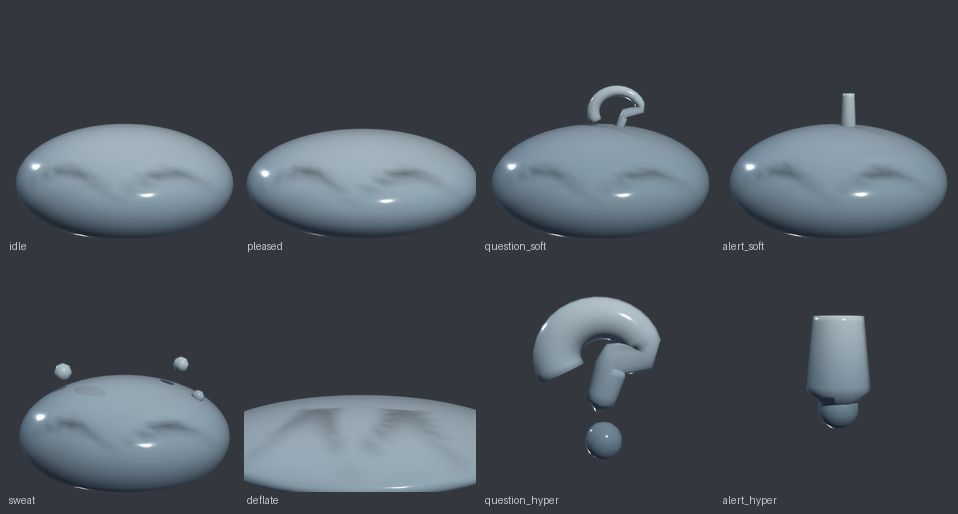
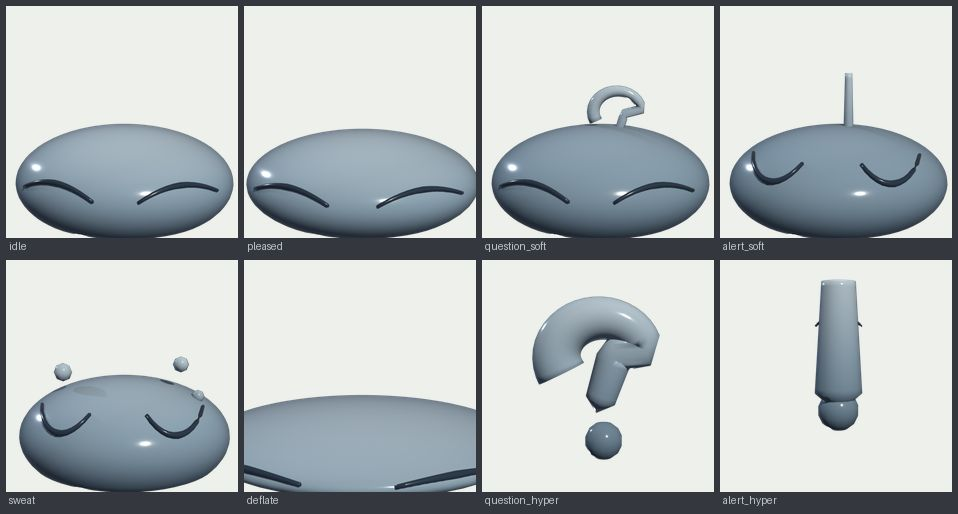
fix(slime_pet): eye strokes survive 72px, per docs/art/_references/slime_tensura
The face is now REAL GEOMETRY laid on the body instead of a crease carved into
it. Measured reason: a crease is a diffuse valley and its contrast dies on
downscale - at 72 px, the size a desktop pet actually is, the carved face
vanished entirely. A dark strip has hard edges, so it survives. Verified on the
use-size strip the build now emits: legible at 512, 200, 120 and 72.

Two bugs found on the way, both the same shape as the ones the rocks kept
producing this week:

  The stroke was solved for a SPHERE of the original radius, but settle_dome had
  already widened XY and compressed Z, so the body is an ELLIPSOID by then. Every
  stroke landed inside the mass and the face disappeared at all sizes. Now solved
  on the real ellipsoid, and offset along the ellipsoid normal (x/ax^2, y/ay^2,
  z/az^2) rather than the position vector - which is a shortcut a sphere permits
  and an ellipsoid does not. Third time in one day that a shape was assumed
  instead of measured.

  The dark-stroke coordinates were snapshotted AFTER bm.free(), so reading them
  raised 'BMesh data of type BMVert has been removed'. Snapshot now happens before
  the free.

Also: --factory-startup leaves the Cycles add-on disabled, so an earlier pass
silently rendered in EEVEE while the code read as if it had asked for Cycles.
Enabling it explicitly changes nothing here - this portable Blender does not ship
Cycles at all, and the engine enum lists only BLENDER_EEVEE. Recorded rather than
worked around.
[…]

diff --git a/game/tools/blender/slime_pet/build_slime_pet.py b/game/tools/blender/slime_pet/build_slime_pet.py
@@ -121,6 +121,58 @@ def carve_eye(bm, side, radius, depth=0.055, arc=0.42, height=0.30, thickness=0.
         v.co -= n * (depth * radius * fall)
 
 
+# Vertices belonging to eye strokes, refilled per expression. Module level so the
+# make_* functions keep their signatures; threading a set through six of them
+# would have bought nothing.
+DARK = set()
+
+
+def add_eye_stroke(bm, side, radius, arc=0.30, height=0.32, thick=0.030,
+                   dip=0.18, proud=0.012, n=13, squash=0.62):
+    """The eye as REAL GEOMETRY laid on the dome, not a crease carved into it.
+
+    Measured reason (2026-08-09): a carved crease is a diffuse valley and its
+    contrast DIES on downscale. At 72 px -- the size a desktop pet actually is --
+    the carved face vanished completely. A dark strip is a shape with hard edges,
+    so it survives being made small, which is the only test that matters here.
+
+    Follows the dome's curvature and sits fractionally proud of it, so it reads as
+    a drawn line the way the anime frames do.
+    """
+    # settle_dome widens XY by 1/sqrt(squash) and compresses Z by squash, so the
+    # body is an ELLIPSOID by the time strokes are added. The first version solved
+    # for a sphere of the original radius and buried every stroke inside the mass:
+    # the face vanished at every size. Third time today that a shape was assumed
+    # instead of measured -- the rocks and the tendrils were the other two.
+    widen = 1.0 / math.sqrt(squash)
+    ax = radius * widen          # semi-axis X
+    ay = radius * widen          # semi-axis Y (depth)
+    az = radius * squash         # semi-axis Z
+    cx = side * 0.46 * ax
+    cz = height * az
+    pts, rad = [], []
+    for i in range(n):
+        t = i / (n - 1)
+        u = (t - 0.5) * 2.0                       # -1 .. 1 across the stroke
+        x = cx + u * arc * ax
+        z = cz - dip * az * (u * u)               # arcs down at the outer ends
+        # Front surface of the ellipsoid at (x, z); clamp so the root stays real.
+        q = (x / ax) ** 2 + (z / az) ** 2
+        y = -ay * math.sqrt(max(1.0 - min(q, 0.999), 0.0))
+        # Outward normal of an ellipsoid is (x/ax^2, y/ay^2, z/az^2), NOT the
+        # position vector -- using the position is what a sphere lets you get away
+        # with and an ellipsoid does not.
+        nrm = Vector((x / (ax * ax), y / (ay * ay), z / (az * az)))
+        if nrm.length > 1e-9:
+            nrm.normalize()
+        p = Vector((x, y, z)) + nrm * (proud * radius)
+        pts.append(p)
+        rad.append(thick * radius * (1.0 - 0.45 * abs(u)))    # tapers to the tips
+    before = set(bm.verts)
+    sweep_tube(bm, pts, rad, ring=6)
+    DARK.update(set(bm.verts) - before)
+
+
 def squint(bm, side, radius, **kw):
     """A broken, tighter stroke -- strain or annoyance."""
     carve_eye(bm, side, radius, depth=kw.get("depth", 0.075),
@@ -198,10 +250,10 @@ def bang_path(scale, n=12):
     pts, rad = [], []
     for i in range(n):
         t = i / (n - 1)
-        pts.append(Vector((0.0, 0.0, 1.10 * scale - t * 0.70 * scale)))
-        # Nearly parallel sides with a slight swell: a cone reads as a spinning
-        # top, which is what the first pass produced.
-        rad.append(scale * (0.105 + 0.030 * t))
+        # A tumbler is what a short fat bar gives you. The glyph is TALL against
+        # its dot -- roughly four dot-diameters -- with near-parallel sides.
+        pts.append(Vector((0.0, 0.0, 1.42 * scale - t * 1.05 * scale)))
+        rad.append(scale * (0.062 + 0.026 * t))
     return pts, rad
 
 
@@ -214,6 +266,12 @@ def add_ball(bm, centre, radius, segments=10):
 def finalize(bm, name, scene):
     bmesh.ops.recalc_face_normals(bm, faces=bm.faces[:])
     bm.normal_update()
+    # Snapshot the stroke coordinates BEFORE freeing the bmesh: a BMVert is dead
+    # the moment bm.free() runs, and reading one afterwards raises
+    # "BMesh data of type BMVert has been removed" -- which is exactly what the
+    # first run of this version did.
+    dark_co = {(round(v.co.x, 5), round(v.co.y, 5), round(v.co.z, 5))
+               for v in DARK if v.is_valid}
     me = bpy.data.meshes.new(name + "_mesh")
     bm.to_mesh(me)
     bm.free()
@@ -222,6 +280,10 @@ def finalize(bm, name, scene):
     zs = [v.co.z for v in me.vertices]
     z_lo, z_hi = min(zs), max(zs)
     for i, v in enumerate(me.vertices):
+        key = (round(v.co.x, 5), round(v.co.y, 5), round(v.co.z, 5))
+        if key in dark_co:
+            col.data[i].color = (EYE_DARK[0], EYE_DARK[1], EYE_DARK[2], 1.0)
+            continue
         c = gel_tone(v.co.z, z_lo, z_hi)
         col.data[i].color = (c[0], c[1], c[2], 1.0)
     obj = bpy.data.objects.new(name, me)
@@ -249,14 +311,15 @@ def darken_eyes(obj, radius, arc=0.42, height=0.30, thickness=0.085):
 
 # ------------------------------------------------------------ expressions ----
 def make_idle(scene, squint_eyes=False, squash=0.62):
+    """Body first, then strokes placed on the body that actually resulted."""
     bm = new_bm_sphere(BODY_R)
     settle_dome(bm, BODY_R, squash=squash)
-    if squint_eyes:
-        squint(bm, -1, BODY_R)
-        squint(bm, 1, BODY_R)
-    else:
-        carve_eye(bm, -1, BODY_R)
-        carve_eye(bm, 1, BODY_R)
+    for side in (-1, 1):
+        if squint_eyes:
+            add_eye_stroke(bm, side, BODY_R, arc=0.24, height=0.34,
+                           thick=0.034, dip=-0.26, squash=squash)   # strain
+        else:
+            add_eye_stroke(bm, side, BODY_R, squash=squash)
     return bm
 
 
@@ -293,15 +356,23 @@ def make_hyperbole(kind, scale):
     """
     bm = bmesh.new()
     if kind == "question":
-        pts, rad = question_path(scale, n=26)
+        pts, rad = question_path(scale, n=34)
         rad = [r * 2.1 for r in rad]
-        sweep_tube(bm, pts, rad, ring=12)
+        sweep_tube(bm, pts, rad, ring=20)
         add_ball(bm, Vector((0.02, 0.0, -0.10 * scale)), scale * 0.185, segments=14)
+        face_r, face_h = scale * 0.40, 1.02 * scale
     else:
-        pts, rad = bang_path(scale, n=14)
-        rad = [r * 2.3 for r in rad]
-        sweep_tube(bm, pts, rad, ring=12)
-        add_ball(bm, Vector((0.0, 0.0, 0.22 * scale)), scale * 0.20, segments=14)
+        pts, rad = bang_path(scale, n=20)
+        rad = [r * 2.6 for r in rad]
+        sweep_tube(bm, pts, rad, ring=20)
+        add_ball(bm, Vector((0.0, 0.0, 0.20 * scale)), scale * 0.20, segments=14)
+        face_r, face_h = scale * 0.30, 1.05 * scale
+    # It has to stay the SAME creature, or the hyperbole reads as a prop someone
+    # left on the desk. Two short strokes across the glyph's thickest span.
+    for side in (-1, 1):
+        add_eye_stroke(bm, side, face_r, arc=0.26,
+                       height=face_h / face_r, thick=0.055, dip=0.16, n=9,
+                       squash=1.0)
     return bm
 
 
@@ -309,10 +380,12 @@ def make_deflate(scene):
     """Melted: the mass gives up and spreads. Volume still conserved."""
     bm = new_bm_sphere(BODY_R)
     settle_dome(bm, BODY_R, squash=0.30, base_flat=-0.55)
+    DEFLATE_SQUASH = 0.30
     for v in bm.verts:                      # eyes become flat resigned lines
         pass
-    carve_eye(bm, -1, BODY_R, depth=0.045, height=0.10, thickness=0.055)
-    carve_eye(bm, 1, BODY_R, depth=0.045, height=0.10, thickness=0.055)
+    for side in (-1, 1):
+        add_eye_stroke(bm, side, BODY_R, arc=0.26, height=0.20, thick=0.034,
+                       dip=0.10, squash=DEFLATE_SQUASH)
     return bm
 
 
@@ -370,10 +443,42 @@ scene.world = world
 world.use_nodes = True
 world.node_tree.nodes["Background"].inputs[0].default_value = (0.05, 0.06, 0.08, 1.0)
 
+# For a GAME asset the GLB is the product and EEVEE is the honest preview. Here
+# the RENDER IS the product, so Cycles earns its cost: real contact shadow and gel
+# translucency. The GTX 1080 sat idle through every previous pass.
+# --factory-startup starts with the Cycles add-on DISABLED, so "CYCLES" is not in
+# the engine enum and the previous run silently fell back to EEVEE while the log
+# claimed otherwise. Enable it before asking.
+try:
+    import addon_utils
+    addon_utils.enable("cycles", default_set=False, persistent=False)
+except Exception as exc:
+    print("[pet] could not enable cycles:", exc)
+
 engines = scene.render.bl_rna.properties["engine"].enum_items.keys()
-scene.render.engine = "BLENDER_EEVEE_NEXT" if "BLENDER_EEVEE_NEXT" in engines else "BLENDER_EEVEE"
-if hasattr(scene, "eevee") and hasattr(scene.eevee, "taa_render_samples"):
-    scene.eevee.taa_render_samples = 96
+print("[pet] engines available:", list(engines))
+if "CYCLES" in engines:
+    scene.render.engine = "CYCLES"
+    scene.cycles.samples = 160
+    scene.cycles.use_denoising = True
+    try:
+        prefs = bpy.context.preferences.addons["cycles"].preferences
+        for backend in ("OPTIX", "CUDA"):
+            try:
+                prefs.compute_device_type = backend
+            except Exception:
+                continue
+            devs = prefs.get_devices_for_type(backend) or []
+            if devs:
+                for d in devs:
+                    d.use = True
+                scene.cycles.device = "GPU"
+                print("[pet] cycles %s: %s" % (backend, [d.name for d in devs]))
+                break
+    except Exception as exc:
+        print("[pet] GPU unavailable, cycles on CPU:", exc)
+else:
+    scene.render.engine = "BLENDER_EEVEE"
 scene.view_settings.view_transform = "Standard"
 # Transparent film: a desktop pet has to sit on the user's wallpaper, not a card.
 scene.render.film_transparent = True
@@ -394,14 +499,9 @@ print("[pet] rendering %d expressions" % len(EXPRESSIONS))
 for key, fn in EXPRESSIONS:
     for o in [o for o in scene.objects if o.type == "MESH"]:
         bpy.data.objects.remove(o, do_unlink=True)
+    DARK.clear()
     bm = fn(scene)
     obj = finalize(bm, "pet_" + key, scene)
-    if key.endswith("_hyper"):
-        # The glyph must still be the SAME creature, so the face rides on its
-        # thickest part -- Joan's whole point about the hyperbole register.
-        darken_eyes(obj, BODY_R * 0.62, arc=0.30, height=0.60, thickness=0.070)
-    else:
-        darken_eyes(obj, BODY_R)
     obj.data.materials.append(mat)
     tris = sum(len(p.vertices) - 2 for p in obj.data.polygons)
     scene.render.filepath = os.path.join(REN_DIR, "pet_%s.png" % key)
